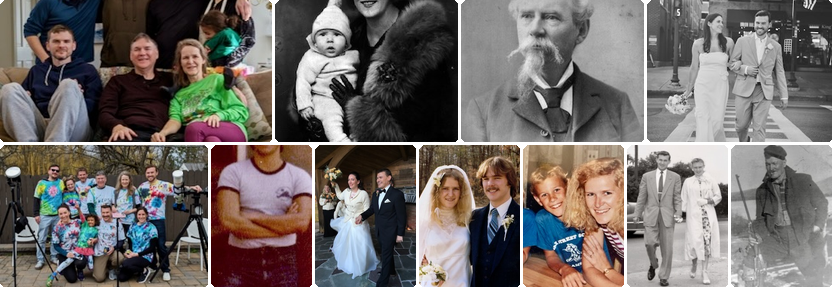
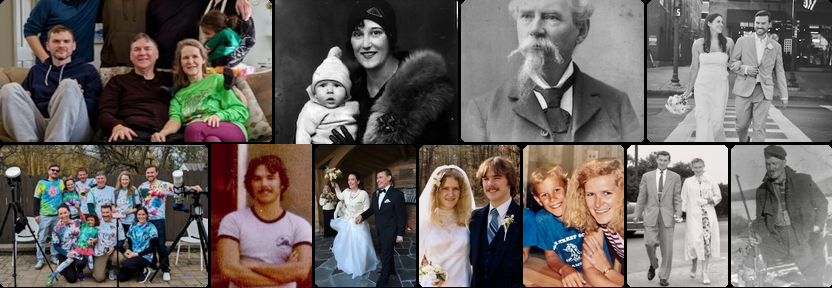
About: drop title overlay and recrop two clipped faces in collage
- Move VideoScan title + subtitle out of ZStack so the AboutCollage
  banner is no longer covered, exposing both rows of family photos.
- Recrop p5 (woman + baby) and p4 (young man) cells with a top-aligned
  fit so their heads stay in frame. Same cell boxes as before — no
  other photos shift.
- Tighten body copy.

Changed region(s): [[0.0, 0.0, 1.0, 1.0]]

diff --git a/VideoScan/VideoScan/VideoScanApp.swift b/VideoScan/VideoScan/VideoScanApp.swift
@@ -396,28 +396,22 @@ struct MainWindowCapture<Content: View>: View {
 struct AboutView: View {
     var body: some View {
         VStack(spacing: 0) {
-            // Header
-            ZStack(alignment: .bottom) {
-                Image("AboutCollage")
-                    .resizable()
-                    .aspectRatio(contentMode: .fit)
-                    .frame(maxWidth: .infinity)
-
-                // Title overlay
-                VStack(spacing: 4) {
-                    Text("VideoScan")
-                        .font(.largeTitle.bold())
-                        .foregroundColor(.white)
-                    Text("Find friends and family in all your home videos.")
-                        .font(.callout)
-                        .foregroundColor(.white.opacity(0.9))
-                }
-                .padding(.vertical, 10)
+            // Header collage — full image, nothing on top of the faces
+            Image("AboutCollage")
+                .resizable()
+                .aspectRatio(contentMode: .fit)
                 .frame(maxWidth: .infinity)
-                .background(.ultraThinMaterial.opacity(0.8))
+
+            // Title sits below the collage so both rows of family photos stay visible
+            VStack(spacing: 4) {
+                Text("VideoScan")
+                    .font(.largeTitle.bold())
+                Text("Find friends and family in all your home videos.")
+                    .font(.callout)
+                    .foregroundStyle(.secondary)
             }
+            .padding(.vertical, 12)
             .frame(maxWidth: .infinity)
-            .clipped()
 
             // Body
             ScrollView {
@@ -428,7 +422,7 @@ struct AboutView: View {
 
                     AboutSection(icon: "externaldrive.connected.to.line.below", color: .green, title: "Finds videos on attached storage or network drives.") {}
 
-                    AboutSection(icon: "waveform.and.magnifyingglass", color: .purple, title: "Understands most video formats and helps you archive your memories.") {}
+                    AboutSection(icon: "waveform.and.magnifyingglass", color: .purple, title: "Understands nearly all video formats and helps archive your favorite memories for the long-term.") {}
 
                     Divider()
 
